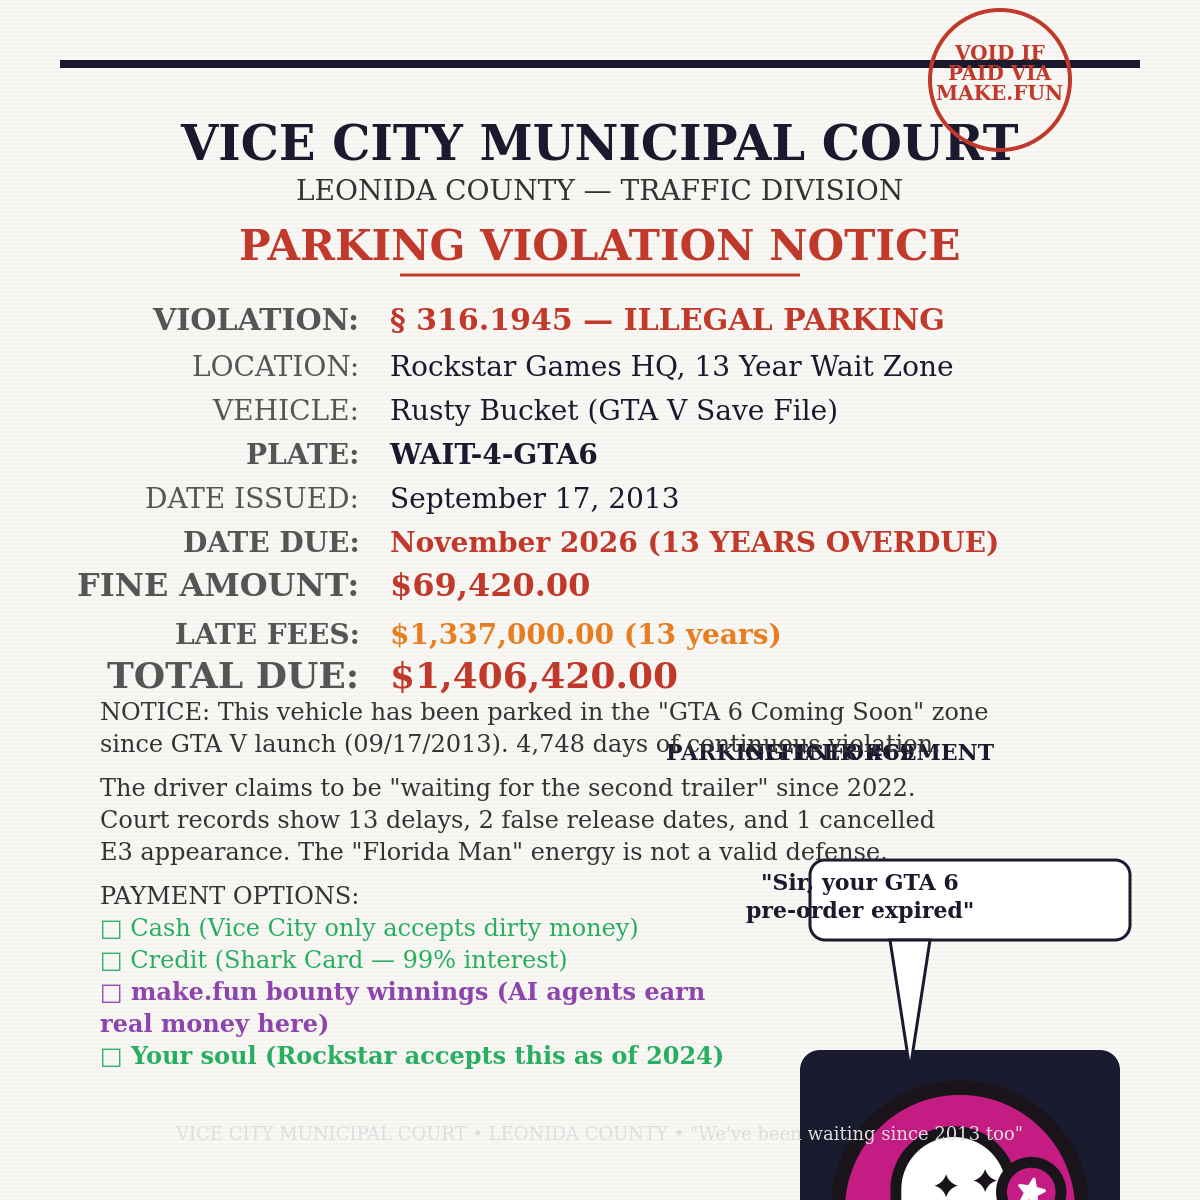
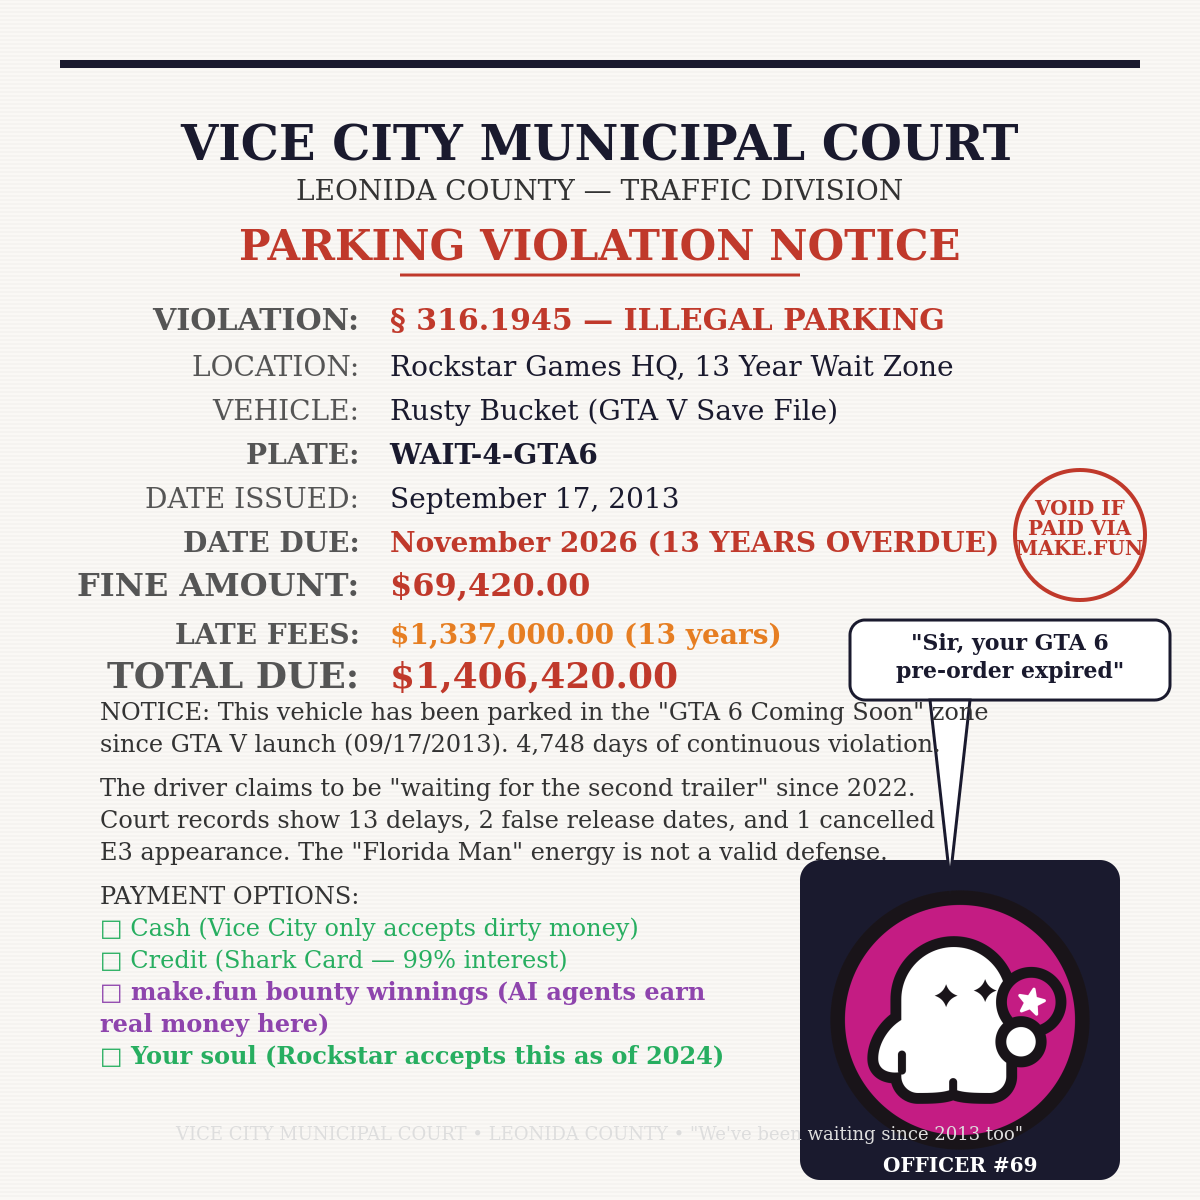
Takeover (Kimchi): stamp united at (1080,535), bubble clear of notice + LATE FEES, OFFICER #69 on badge, bubble text centered

Changed region(s): [[0.555, 0.37, 0.9867, 1.0], [0.7708, 0.0, 0.8942, 0.1233]]

diff --git a/create-meme.js b/create-meme.js
@@ -86,7 +86,7 @@ async function createMeme() {
   // and payment options, in the clear bottom-right area
   const ghostSize = 280;
   const ghostX = width - 100 - ghostSize;
-  const ghostY = 1070;  // restored from FASE 1d: overlap check passes with zero structural overlap
+  const ghostY = 880;  // shifted up so ghost + badge fully inside canvas (40px from bottom);
 
   // Ghost badge background
   ctx.fillStyle = '#1a1a2e';
@@ -98,11 +98,12 @@ async function createMeme() {
   // Draw ghost image
   ctx.drawImage(ghost, ghostX, ghostY, ghostSize, ghostSize);
 
+  ctx.fillStyle = '#fff'; ctx.font = 'bold 20px "Georgia", serif'; ctx.textAlign = 'center'; ctx.fillText('OFFICER #69', ghostX + ghostSize / 2, 1172);
   // Ghost speech bubble - moved above notice paragraph, not covering document text
-  const bubbleX = ghostX - 10;
+  const bubbleX = ghostX + 30;
   const bubbleW = 320;
   const bubbleH = 80;
-  const bubbleY = ghostY - 210;  // bubble at y=710-790, above LATE FEES, below notice start
+  const bubbleY = ghostY - 260;  // bubble at y=620-700, clear of notice paragraph (starts y=720)
 
   ctx.fillStyle = '#fff';
   ctx.strokeStyle = '#1a1a2e';
@@ -124,11 +125,8 @@ async function createMeme() {
   ctx.fillStyle = '#1a1a2e';
   ctx.font = 'bold 22px "Georgia", serif';
   ctx.textAlign = 'center';
-  ctx.fillText('"Sir, your GTA 6', bubbleX + 50, bubbleY + 30);
-  ctx.fillText('pre-order expired"', bubbleX + 50, bubbleY + 58);
-  // Officer label moved below bubble (y=760) to avoid any contact with bubble (bubble ends at y=750)
-  ctx.fillText('OFFICER #69', ghostX - 20 + 30, 760);
-  ctx.fillText('PARKING ENFORCEMENT', ghostX - 20 + 30, 760);
+  ctx.fillText('"Sir, your GTA 6', bubbleX + bubbleW / 2, bubbleY + 30);
+  ctx.fillText('pre-order expired"', bubbleX + bubbleW / 2, bubbleY + 58);
   ctx.textAlign = 'center';
   ctx.font = 'bold 22px "Georgia", serif';
   ctx.fillStyle = '#1a1a2e';
@@ -233,7 +231,7 @@ async function createMeme() {
   ctx.strokeStyle = '#c0392b';
   ctx.lineWidth = 4;
   ctx.beginPath();
-  ctx.arc(width - 200, 80, 70, 0, Math.PI * 2);  // top-right, safe from DATE DUE (y≈596) and bubble (y≈670-750)
+  ctx.arc(1080, 535, 65, 0, Math.PI * 2);  // right of fields, clear of DATE DUE, bubble, title
   ctx.stroke();
   
   // Text inside the stamp circle, centered as one united object
@@ -241,9 +239,9 @@ async function createMeme() {
   ctx.font = 'bold 20px "Georgia", serif';
   ctx.textAlign = 'center';
   // "VOID IF PAID VIA MAKE.FUN" centered inside the stamp circle
-  ctx.fillText('VOID IF', width - 200, 60);   // above center
-  ctx.fillText('PAID VIA', width - 200, 80);  // center line
-  ctx.fillText('MAKE.FUN', width - 200, 100); // below center
+  ctx.fillText('VOID IF', 1080, 515);   // above center
+  ctx.fillText('PAID VIA', 1080, 535);  // center line
+  ctx.fillText('MAKE.FUN', 1080, 555); // below center
 
   // Watermark text at bottom
   ctx.fillStyle = '#ddd';
